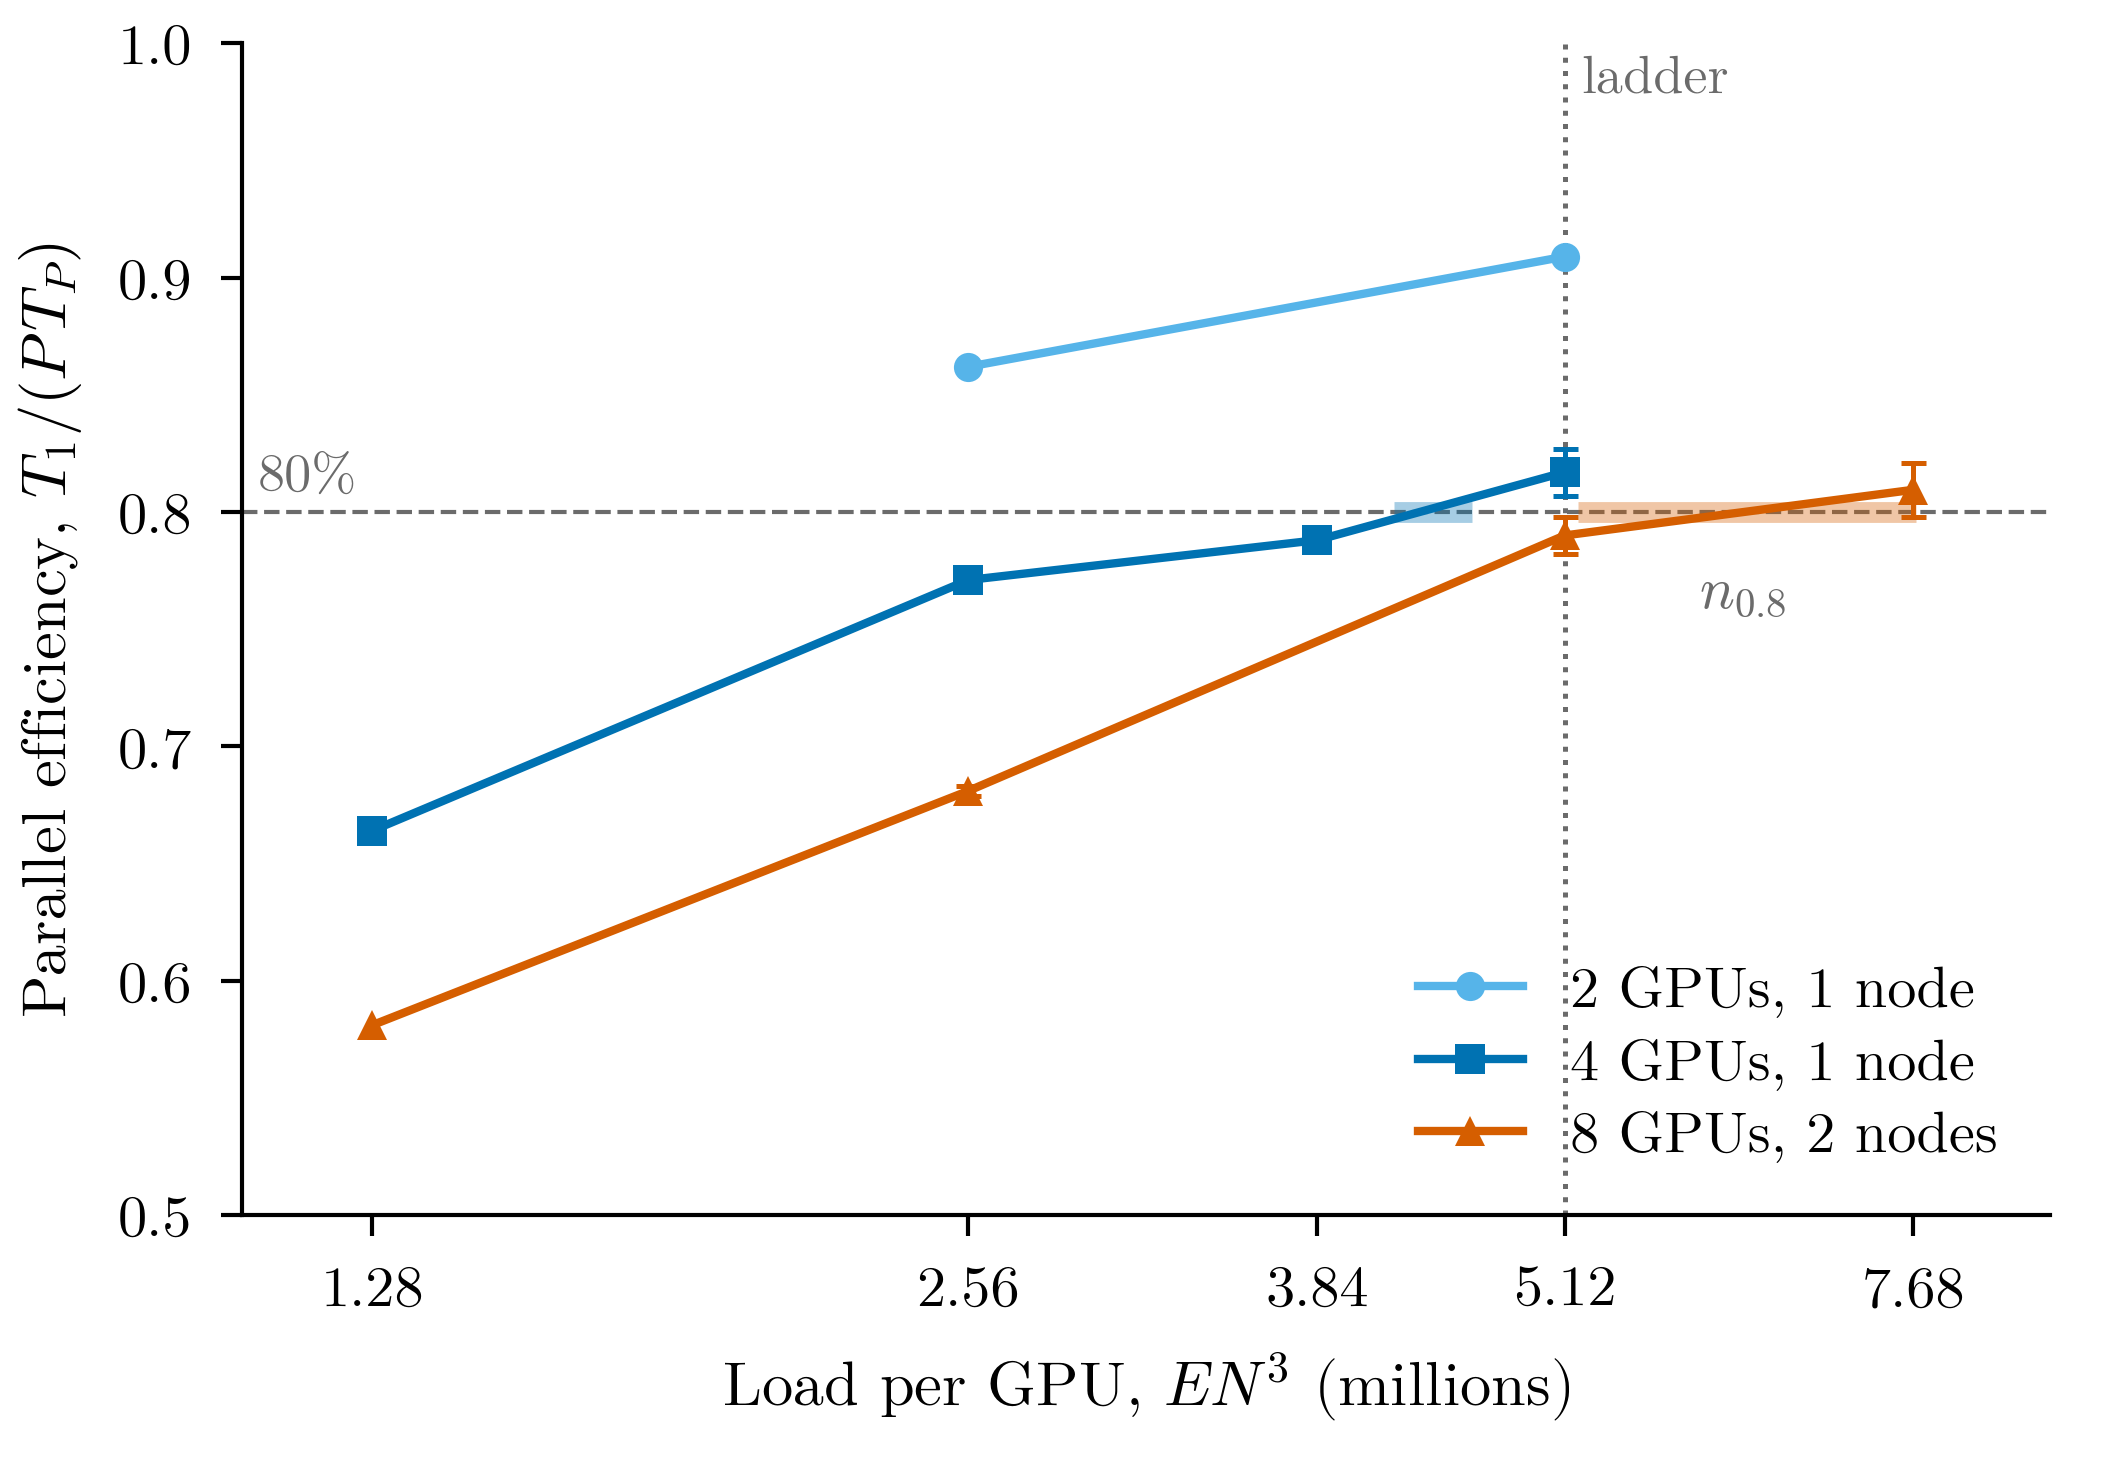
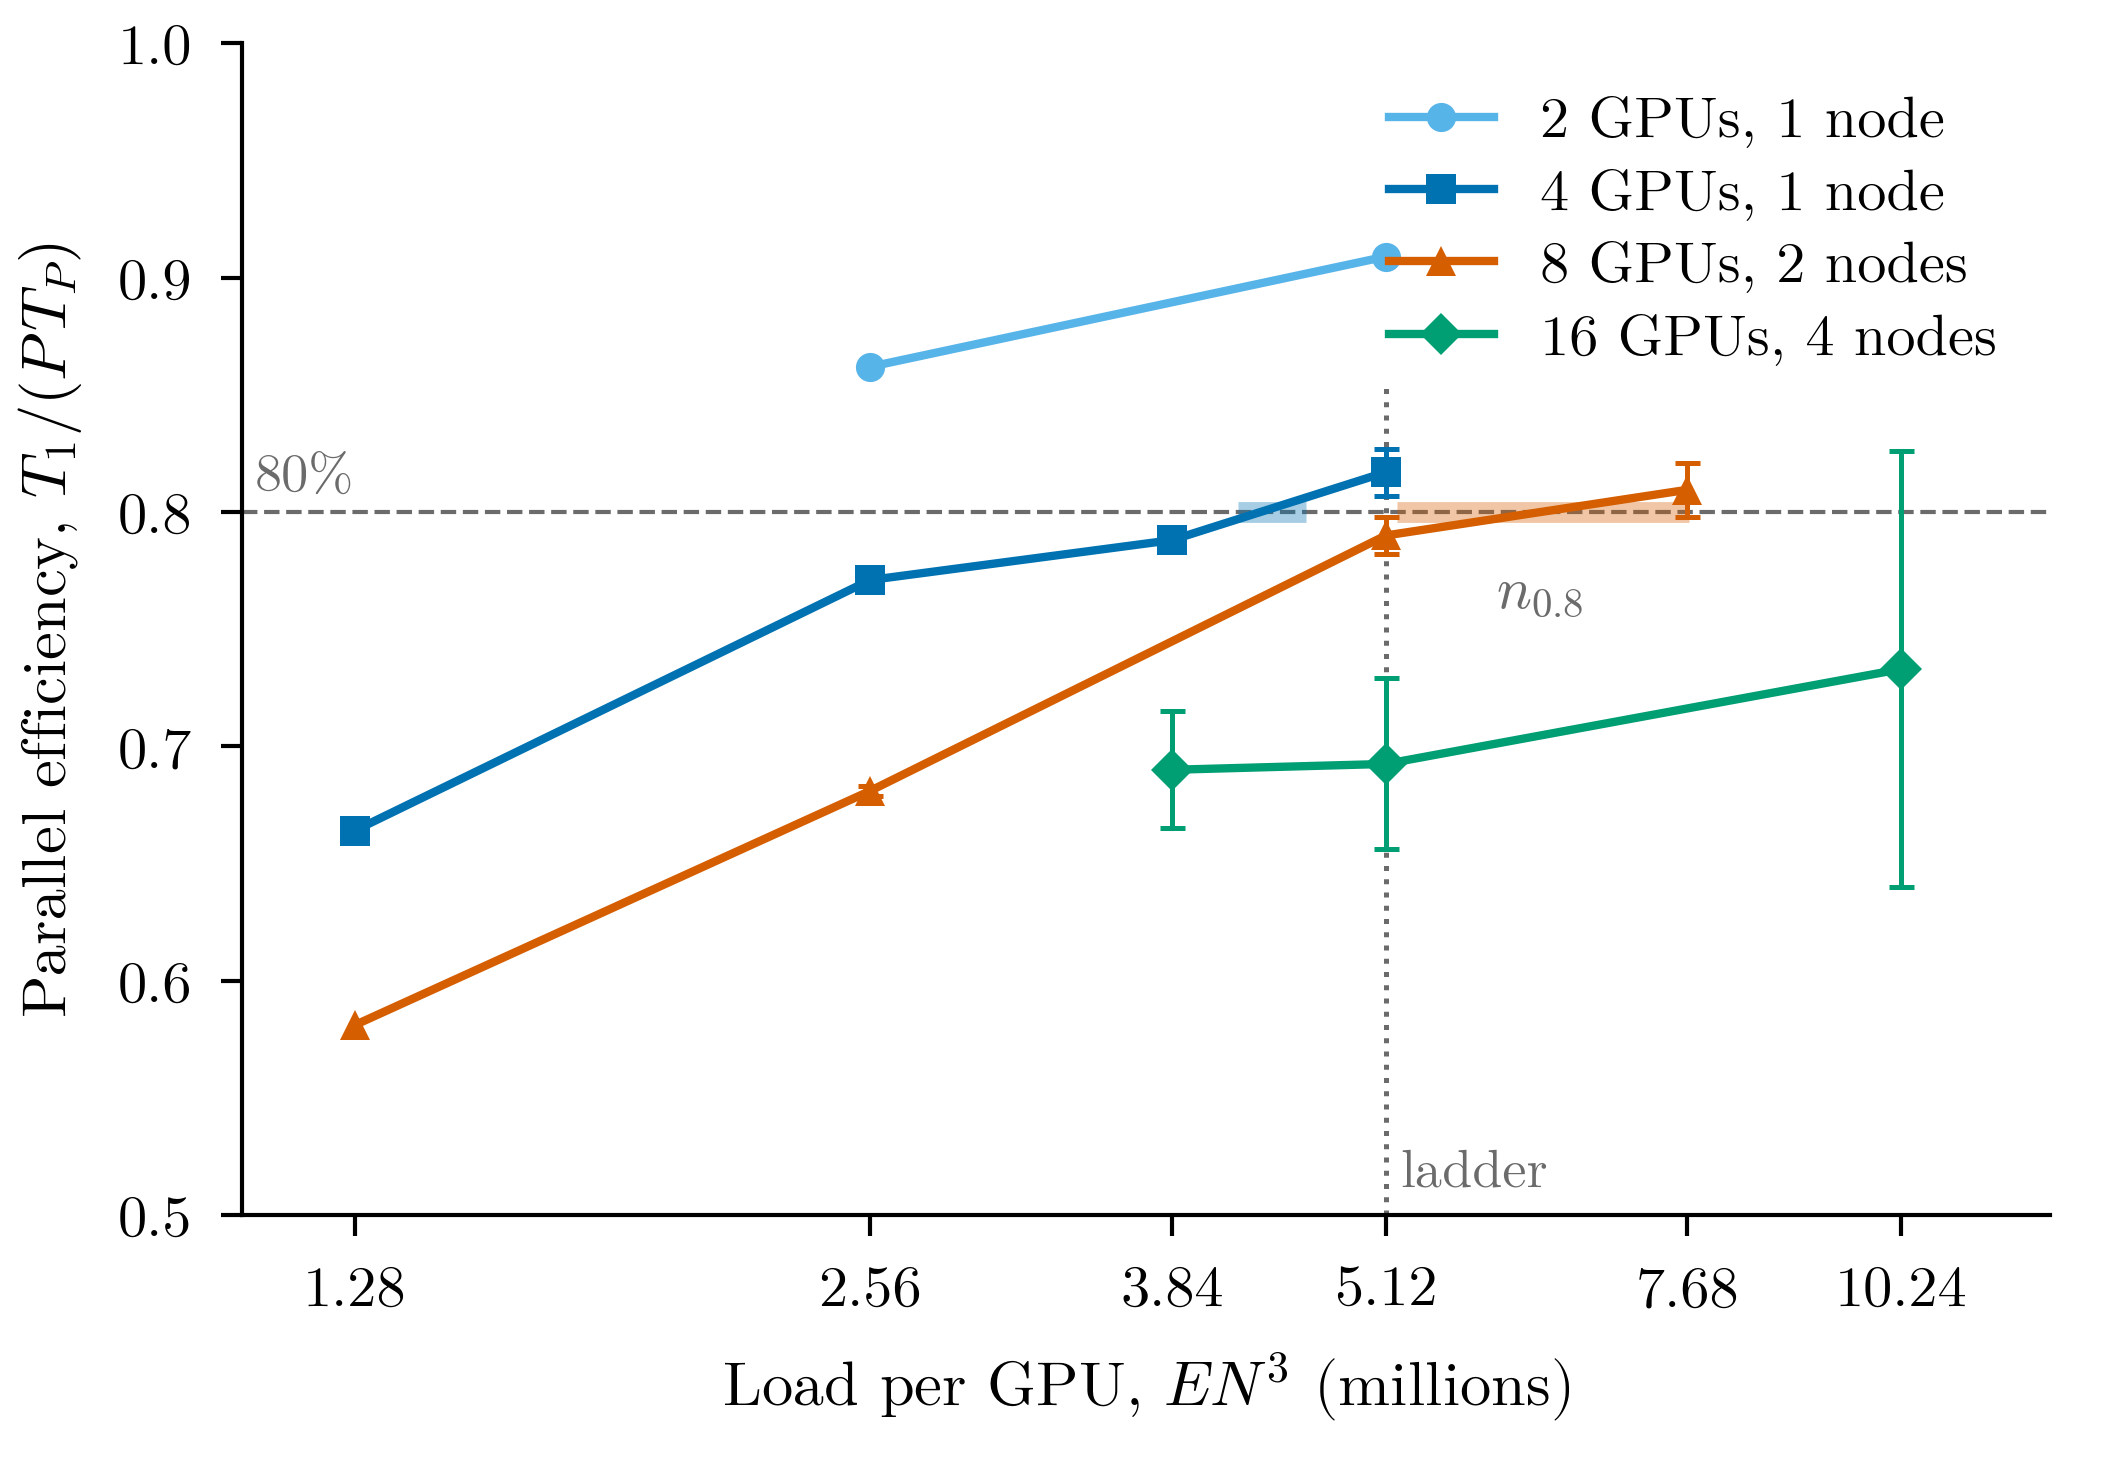
Report weak and strong scaling to 16 GPUs
The GPU studies are capped at 16 GPUs for now, so #10 and #22 close
with how far they got. Weak ladder at 256 cilia per GPU, 1 to 16 GPUs:
725 cilia-cycles per GPU-hour on 16 against 1311 on one. Strong
scaling adds the 16-GPU row and a 10.24M column; n0.8 on 16 GPUs is
above 5.12M per GPU with no upper bound yet, still small-P.

diff --git a/docs/figures/make_scaling.py b/docs/figures/make_scaling.py
@@ -34,10 +34,12 @@ SERIES = [
      [(1.28, 0.664, 0.664), (2.56, 0.771, 0.771), (3.84, 0.788, 0.788), (5.12, 0.807, 0.827)]),
     ("8 GPUs, 2 nodes", VERM, "^",
      [(1.28, 0.581, 0.581), (2.56, 0.679, 0.683), (5.12, 0.782, 0.798), (7.68, 0.798, 0.821)]),
+    ("16 GPUs, 4 nodes", GREEN, "D",
+     [(3.84, 0.665, 0.715), (5.12, 0.656, 0.729), (10.24, 0.640, 0.826)]),
 ]
 # n_0.8 ranges (millions per GPU) for P = 4 and P = 8
 N08 = {"4 GPUs, 1 node": (4.2, 4.6), "8 GPUs, 2 nodes": (5.2, 7.7)}
-TICKS = [1.28, 2.56, 3.84, 5.12, 7.68]
+TICKS = [1.28, 2.56, 3.84, 5.12, 7.68, 10.24]
 LADDER = 5.12
 
 # -------------------------------------------------------------------- figure
@@ -45,7 +47,7 @@ fig, ax = plt.subplots(figsize=(89 * MM, 62 * MM))
 fig.subplots_adjust(left=0.115, right=0.975, top=0.97, bottom=0.17)
 
 ax.set_xscale("log", base=2)
-ax.set_xlim(1.1, 9)
+ax.set_xlim(1.1, 12.5)
 ax.set_ylim(0.5, 1.0)
 ax.xaxis.set_major_locator(FixedLocator(TICKS))
 ax.xaxis.set_major_formatter(FixedFormatter([f"{t:g}" for t in TICKS]))
@@ -54,8 +56,8 @@ ax.set_yticks([0.5, 0.6, 0.7, 0.8, 0.9, 1.0])
 
 ax.axhline(0.8, color=GREY, ls="--", lw=0.5, zorder=1)
 ax.text(1.12, 0.805, "80%", color=GREY, fontsize=6.5, ha="left", va="bottom")
-ax.axvline(LADDER, color=GREY, ls=":", lw=0.6, zorder=1)
-ax.text(LADDER * 1.02, 0.995, "ladder", color=GREY, fontsize=6.5, ha="left", va="top")
+ax.plot([LADDER, LADDER], [0.5, 0.855], color=GREY, ls=":", lw=0.6, zorder=1)  # stops under the legend
+ax.text(LADDER * 1.02, 0.508, "ladder", color=GREY, fontsize=6.5, ha="left", va="bottom")
 
 for lab, col, mk, pts in SERIES:
     if lab in N08:
@@ -77,9 +79,8 @@ ax.set_xlabel("Load per GPU, $E N^3$ (millions)")
 ax.set_ylabel("Parallel efficiency, $T_1 / (P\\,T_P)$")
 for s in ("top", "right"):
     ax.spines[s].set_visible(False)
-ax.legend(loc="lower right", frameon=False, handlelength=1.8, labelspacing=0.35)
+ax.legend(loc="upper right", frameon=False, handlelength=1.8, labelspacing=0.35)
 
 fig.savefig(OUT / "scaling.pdf")
 fig.savefig(OUT / "scaling.png", dpi=600)
-fig.savefig("/tmp/claude-1000/-home-waseemshameer-repos-cilia/ea270308-caf0-44f9-89e4-eb2ea5398d6e/scratchpad/scaling_prev.png", dpi=100)
 plt.close(fig)

diff --git a/docs/scaling.md b/docs/scaling.md
@@ -10,23 +10,24 @@ What this project does about nekRS scaling on GPUs, and why. Every setting below
 
 **Ladder.** Scaling runs use the tiled cases at 64 tiles per GPU: 256 cilia, 40,960 elements, 5.12M E·N³. That's at or just under the small-P n0.8 measured below, the load production would run at ([cases](case.md#tiled-cases)).
 
-**Measured.** Production mesh (8 × 8 × 10 per tile), N_p = 40, GPU-aware MPI on one node and across nodes, runs to t = 0.1, steps 11–99. These aren't release numbers; those are in [performance.md](performance.md). Efficiency is T₁ / (P · T_P) in seconds per coupling corrector, because the corrector count to t = 0.1 varies from run to run (417 to 523), so per step would mix solver work into the rank count. T₁ is the same case on 1 GPU where it fits, up to 15.36M (73 GB on one 80 GB A100). Above that, T₁ is the load times the 1-GPU rate, measured at 0.0531, 0.0521 and 0.0517 s per corrector per M E·N³ at 5.12M, 10.24M and 15.36M. The range takes that rate flat past 15.36M (upper) or still falling at its last measured slope (lower).
+**Measured.** Production mesh (8 × 8 × 10 per tile), N_p = 40, GPU-aware MPI on one node and across nodes, runs to t = 0.1, steps 11–99. The 16-GPU 5.12M point is steps 11–99 of the weak ladder's one-cycle run. These aren't release numbers; those are in [performance.md](performance.md). Efficiency is T₁ / (P · T_P) in seconds per coupling corrector, because the corrector count to t = 0.1 varies from run to run (417 to 523), so per step would mix solver work into the rank count. T₁ is the same case on 1 GPU where it fits, up to 15.36M (73 GB on one 80 GB A100). Above that, T₁ is the load times the 1-GPU rate, measured at 0.0531, 0.0521 and 0.0517 s per corrector per M E·N³ at 5.12M, 10.24M and 15.36M. The range takes that rate flat past 15.36M (upper) or still falling at its last measured slope (lower).
 
-| GPUs | nodes | 1.28M | 2.56M | 3.84M | 5.12M | 7.68M |
-|---|---|---|---|---|---|---|
-| 2 | 1 | – | 0.862 | – | 0.909 | – |
-| 4 | 1 | 0.664 | 0.771 | 0.788 | 0.807–0.827 | – |
-| 8 | 2 | 0.581 | 0.679–0.683 | – | 0.782–0.798 | 0.798–0.821 |
+| GPUs | nodes | 1.28M | 2.56M | 3.84M | 5.12M | 7.68M | 10.24M |
+|---|---|---|---|---|---|---|---|
+| 2 | 1 | – | 0.862 | – | 0.909 | – | – |
+| 4 | 1 | 0.664 | 0.771 | 0.788 | 0.807–0.827 | – | – |
+| 8 | 2 | 0.581 | 0.679–0.683 | – | 0.782–0.798 | 0.798–0.821 | – |
+| 16 | 4 | – | – | 0.665–0.715 | 0.656–0.729 | – | 0.640–0.826 |
 
-Columns are E·N³ per GPU; elements per GPU are E·N³ / 125, from 10,240 at 1.28M to 61,440 at 7.68M. The 4-GPU 5.12M range also spans two nodes.
+Columns are E·N³ per GPU; elements per GPU are E·N³ / 125, from 10,240 at 1.28M to 81,920 at 10.24M. The 4-GPU 5.12M range also spans two nodes. On 16 GPUs every case is 61M E·N³ or more, so the T₁ range is wide: at 10.24M it's 0.64–0.83 from `tiled64x32` alone. `tiled32x24` from 8 to 16 GPUs is 0.870 against its own 8-GPU time, 0.4833 to 0.2777 s per corrector, with ū the same to 6e-7.
 
 <p align="center"><img src="figures/scaling.png" width="600" alt="Parallel efficiency against load per GPU on 2, 4 and 8 A100s"></p>
 
-*Parallel efficiency against load per GPU, production mesh. Bars are the T₁ range where the case doesn't fit one GPU. The dashed line is 80%; the shaded spans on it are n0.8 for 4 and 8 GPUs. The dotted line is the scaling ladder's load.*
+*Parallel efficiency against load per GPU, production mesh, on 2 to 16 A100s. Bars are the T₁ range where the case doesn't fit one GPU. The dashed line is 80%; the shaded spans on it are n0.8 for 4 and 8 GPUs. On 16 GPUs n0.8 is above 5.12M and has no upper bound yet. The dotted line is the scaling ladder's load.*
 
 **Repeats.** On another node, `tiled16x8` on 1 and 4 GPUs repeats to 0.1% per corrector, with the same corrector count and ū; `tiled32x16` on 8 GPUs across two other nodes repeats to 0.4%. `tiled16` on 4 GPUs moved 1.9% with a different corrector count, so that run isn't bit-reproducible at 4 ranks. ū at t = 0.1 agrees across every run to 2e-6 relative.
 
-**n0.8, small-P:** 4.2–4.6M per GPU on 4 A100 on one node, 5.2–7.7M on 8 A100 across two nodes, and under 2.56M on 2 GPUs. Above about 4M per GPU the curve is flat (0.78–0.82), so n0.8 is a wide range on 8 GPUs even though each efficiency is tight. n0.8 rises with P, as Min25 Sec 4 says it does until P > 26, so no load at scale is quoted from these ([#16](https://github.com/waseemshameer/cilia-nekrs/issues/16)).
+**n0.8, small-P:** 4.2–4.6M per GPU on 4 A100 on one node, 5.2–7.7M on 8 A100 across two nodes, above 5.12M on 16 A100 across four nodes, and under 2.56M on 2 GPUs. Above about 4M per GPU the curve is flat (0.78–0.82), so n0.8 is a wide range on 8 GPUs even though each efficiency is tight. n0.8 rises with P, as Min25 Sec 4 says it does until P > 26, so no load at scale is quoted from these ([#16](https://github.com/waseemshameer/cilia-nekrs/issues/16), [#22](https://github.com/waseemshameer/cilia-nekrs/issues/22)). On 16 GPUs, 5.12M per GPU is 0.744 against the measured 1-GPU time at the same load (the weak ladder below), and 0.66–0.73 by T₁, so n0.8 is above it. The 10.24M range straddles 0.8, so it sets no upper bound. These studies stop at 16 GPUs for now, short of P = 26.
 
 Efficiency depends on P as well as load: at 2.56M per GPU it's 0.86 on 2 GPUs, 0.77 on 4 and 0.68 on 8. The 1-GPU rate changes only 3% from 5.12M to 15.36M, so the loss is in communication, not on the GPU. The cilia code isn't the limit either: on the 10 × 10 × 12 mesh, `addCiliaForce` was 2.30% of the solve for `tiled8` on 4 GPUs with GPU-aware MPI.
 
@@ -60,9 +61,25 @@ This check replaces an earlier one, ū within 1e-6 at t = 0.1, which couldn't so
 | gs autotune (`OOGS_MODE` unset), comm overlap on | Min25 Sec 1.4; `src/platform/ogs/oogs.cpp:559`; `src/lib/nekrs.cpp:78` |
 | `residualTol` 2e-3 velocity, 3e-3 pressure | 3e-3 for both passed the gate and was 1.25× for velocity and 1.13× for pressure against 1e-4. On the tiled cases, though, the inexact velocity solve adds coupling correctors in the hard phases of the beat. Velocity at 2e-3 takes `tiled8` on 4 GPUs from 4.41 to 3.68 correctors per step and 0.936× s/step, and still passes the gate (∫dv/dz L2 1.54e-4, L∞ 8.95e-4 of peak). 1e-3 cuts more correctors but each solve costs more: 0.973×. Tighter pressure doesn't cut correctors ([#18](https://github.com/waseemshameer/cilia-nekrs/issues/18)). The tolerance is scaled by √volume (`src/core/elliptic/elliptic.cpp:408`), so it means the same on any tile size |
 
-## Under test
+## Weak scaling
 
-**Load at scale.** The weak ladder at 5.12M per GPU, 1 to 64 GPUs, and strong scaling past 8 GPUs, to take n0.8 past P = 26 ([#10](https://github.com/waseemshameer/cilia-nekrs/issues/10)).
+The tiled ladder at 256 cilia (5.12M E·N³) per GPU, one beat cycle (1,000 steps), production settings, GPU-aware MPI, 4 GPUs per node ([#10](https://github.com/waseemshameer/cilia-nekrs/issues/10)). Cycle time is nekRS's `solve` timer. Setup is the rest: JIT load, mesh and partition. Cilia-cycles per GPU-hour = 256 × 3600 / time.
+
+| Case | GPUs | nodes | s/step | correctors/step | s/corrector | efficiency per step | efficiency per corrector | cilia-cycles per GPU-hour, stepping / with setup |
+|---|---|---|---|---|---|---|---|---|
+| `tiled8` | 1 | 1 | 0.703 | 3.55 | 0.198 | 1.00 | 1.00 | 1311 / 1022 |
+| `tiled16x8` | 2 | 1 | 0.834 | 3.90 | 0.214 | 0.84 | 0.93 | 1106 / 860 |
+| `tiled16` | 4 | 1 | 0.983 | 4.11 | 0.239 | 0.72 | 0.83 | 938 / 761 |
+| `tiled32x16` | 8 | 2 | 1.100 | 4.48 | 0.245 | 0.64 | 0.81 | 837 / 686 |
+| `tiled32` | 16 | 4 | 1.271 | 4.83 | 0.263 | 0.55 | 0.75 | 725 / 611 |
+
+No step hit the corrector cap. ū after one cycle agrees across all five to 1.5e-5 relative (2 GPUs is the worst; the rest are within 3.5e-6).
+
+On 16 GPUs a cilium-cycle costs 1.8× what it does on one. About half of that loss is the solver: s/corrector rises 1.33×, as communication grows. The other half is more coupling correctors per step in the bigger boxes, 3.55 to 4.83, the same rise with box size as on the 10 × 10 × 12 mesh. Setup is 200–240 s at every size, so it costs more per cycle on one GPU (22%) than on 16 (16%).
+
+Steps 11–99 of the 1- to 8-GPU runs agree with #16's strong-scaling runs of the same cases to 2% per corrector.
+
+**How far it got:** 16 GPUs on 4 nodes. 32 and 64 GPUs aren't run: the studies are capped at 16 GPUs for now, so nothing here is quoted as a load at scale (P > 26).
 
 ## Advice we checked and didn't adopt
 
